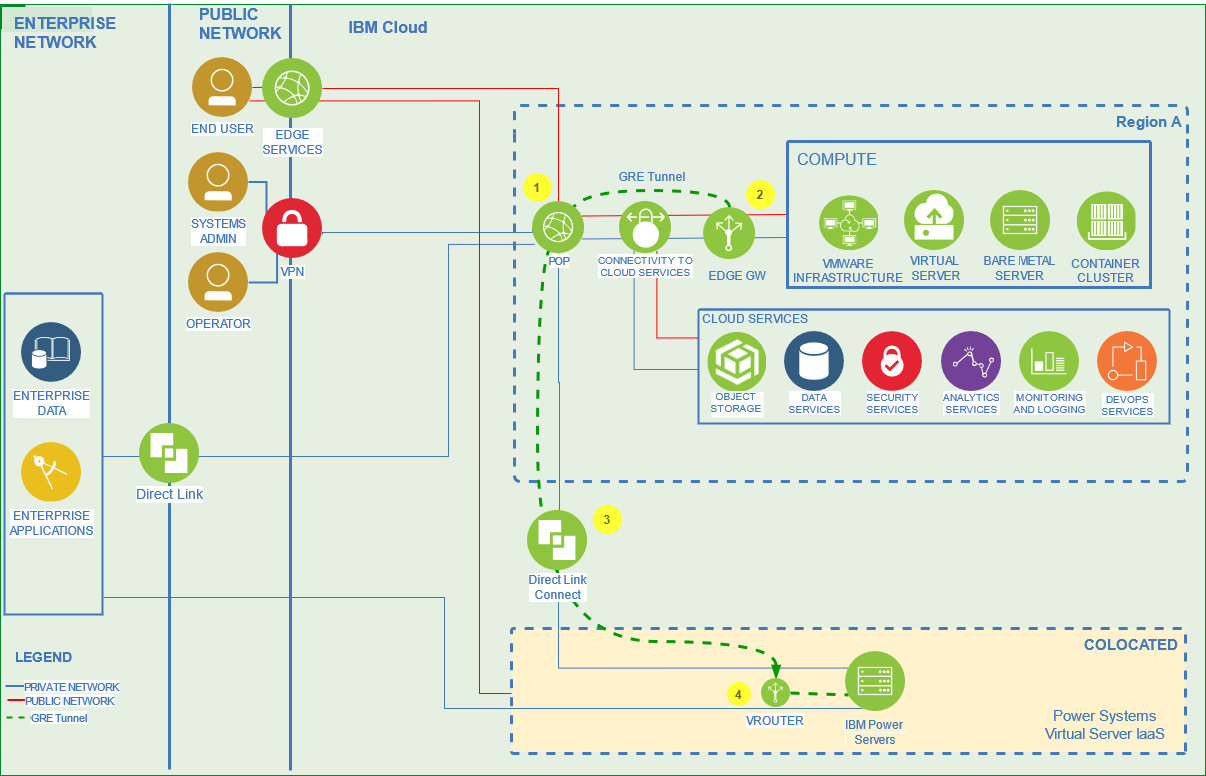
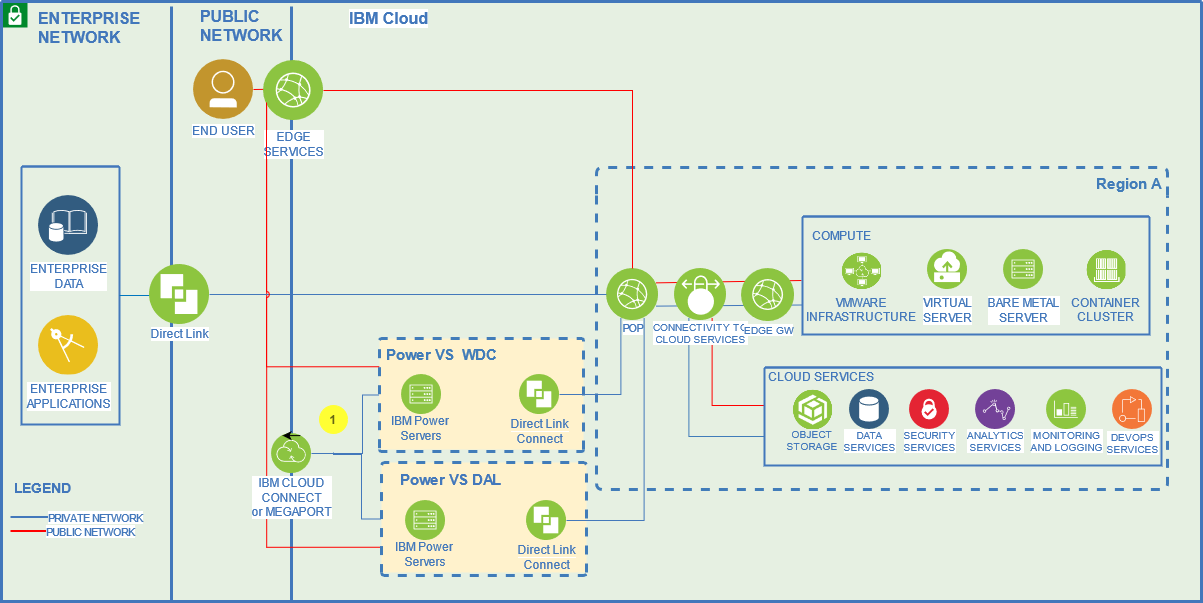
n/w diagram changes

diff --git a/network-architecture.md b/network-architecture.md
@@ -75,7 +75,7 @@ You can connect to the IBM Cloud Power environment by using **IBM Cloud Direct L
   2. Connect the IBM Power Systems Virtual Server by using Direct Link Connect to the IBM Cloud network.
   3. [Configure the GRE service](/docs/power-iaas?topic=power-iaas-configuring-power#gre-tunneling) on the IBM Power Systems Virtual Server network to establish a GRE tunnel to the Power Server environment and to enable the bring-your-own-IP address (BYOIP) feature. A VRA or equivalent is required in IBM Cloud.
 
-  ![Power Systems Virtual Server to Customer data center connection](./images/BYOIPusingDL+DLconnect+EdgeGW.png "Power Systems Virtual Server data center connection"){: caption="Figure 4. Power Systems Virtual Server data center connection" caption-side="bottom"}
+  ![Power Systems Virtual Server to Customer data center connection](./images/Connectivity-Customer-Data-Center-using-IBM-Cloud-DL.png "Power Systems Virtual Server data center connection"){: caption="Figure 4. Power Systems Virtual Server data center connection" caption-side="bottom"}
 
 <!--## IBM Power IaaS locations connectivity by using IBM Cloud Connect or Megaport
 {: #onprem-to-poweriaas}
